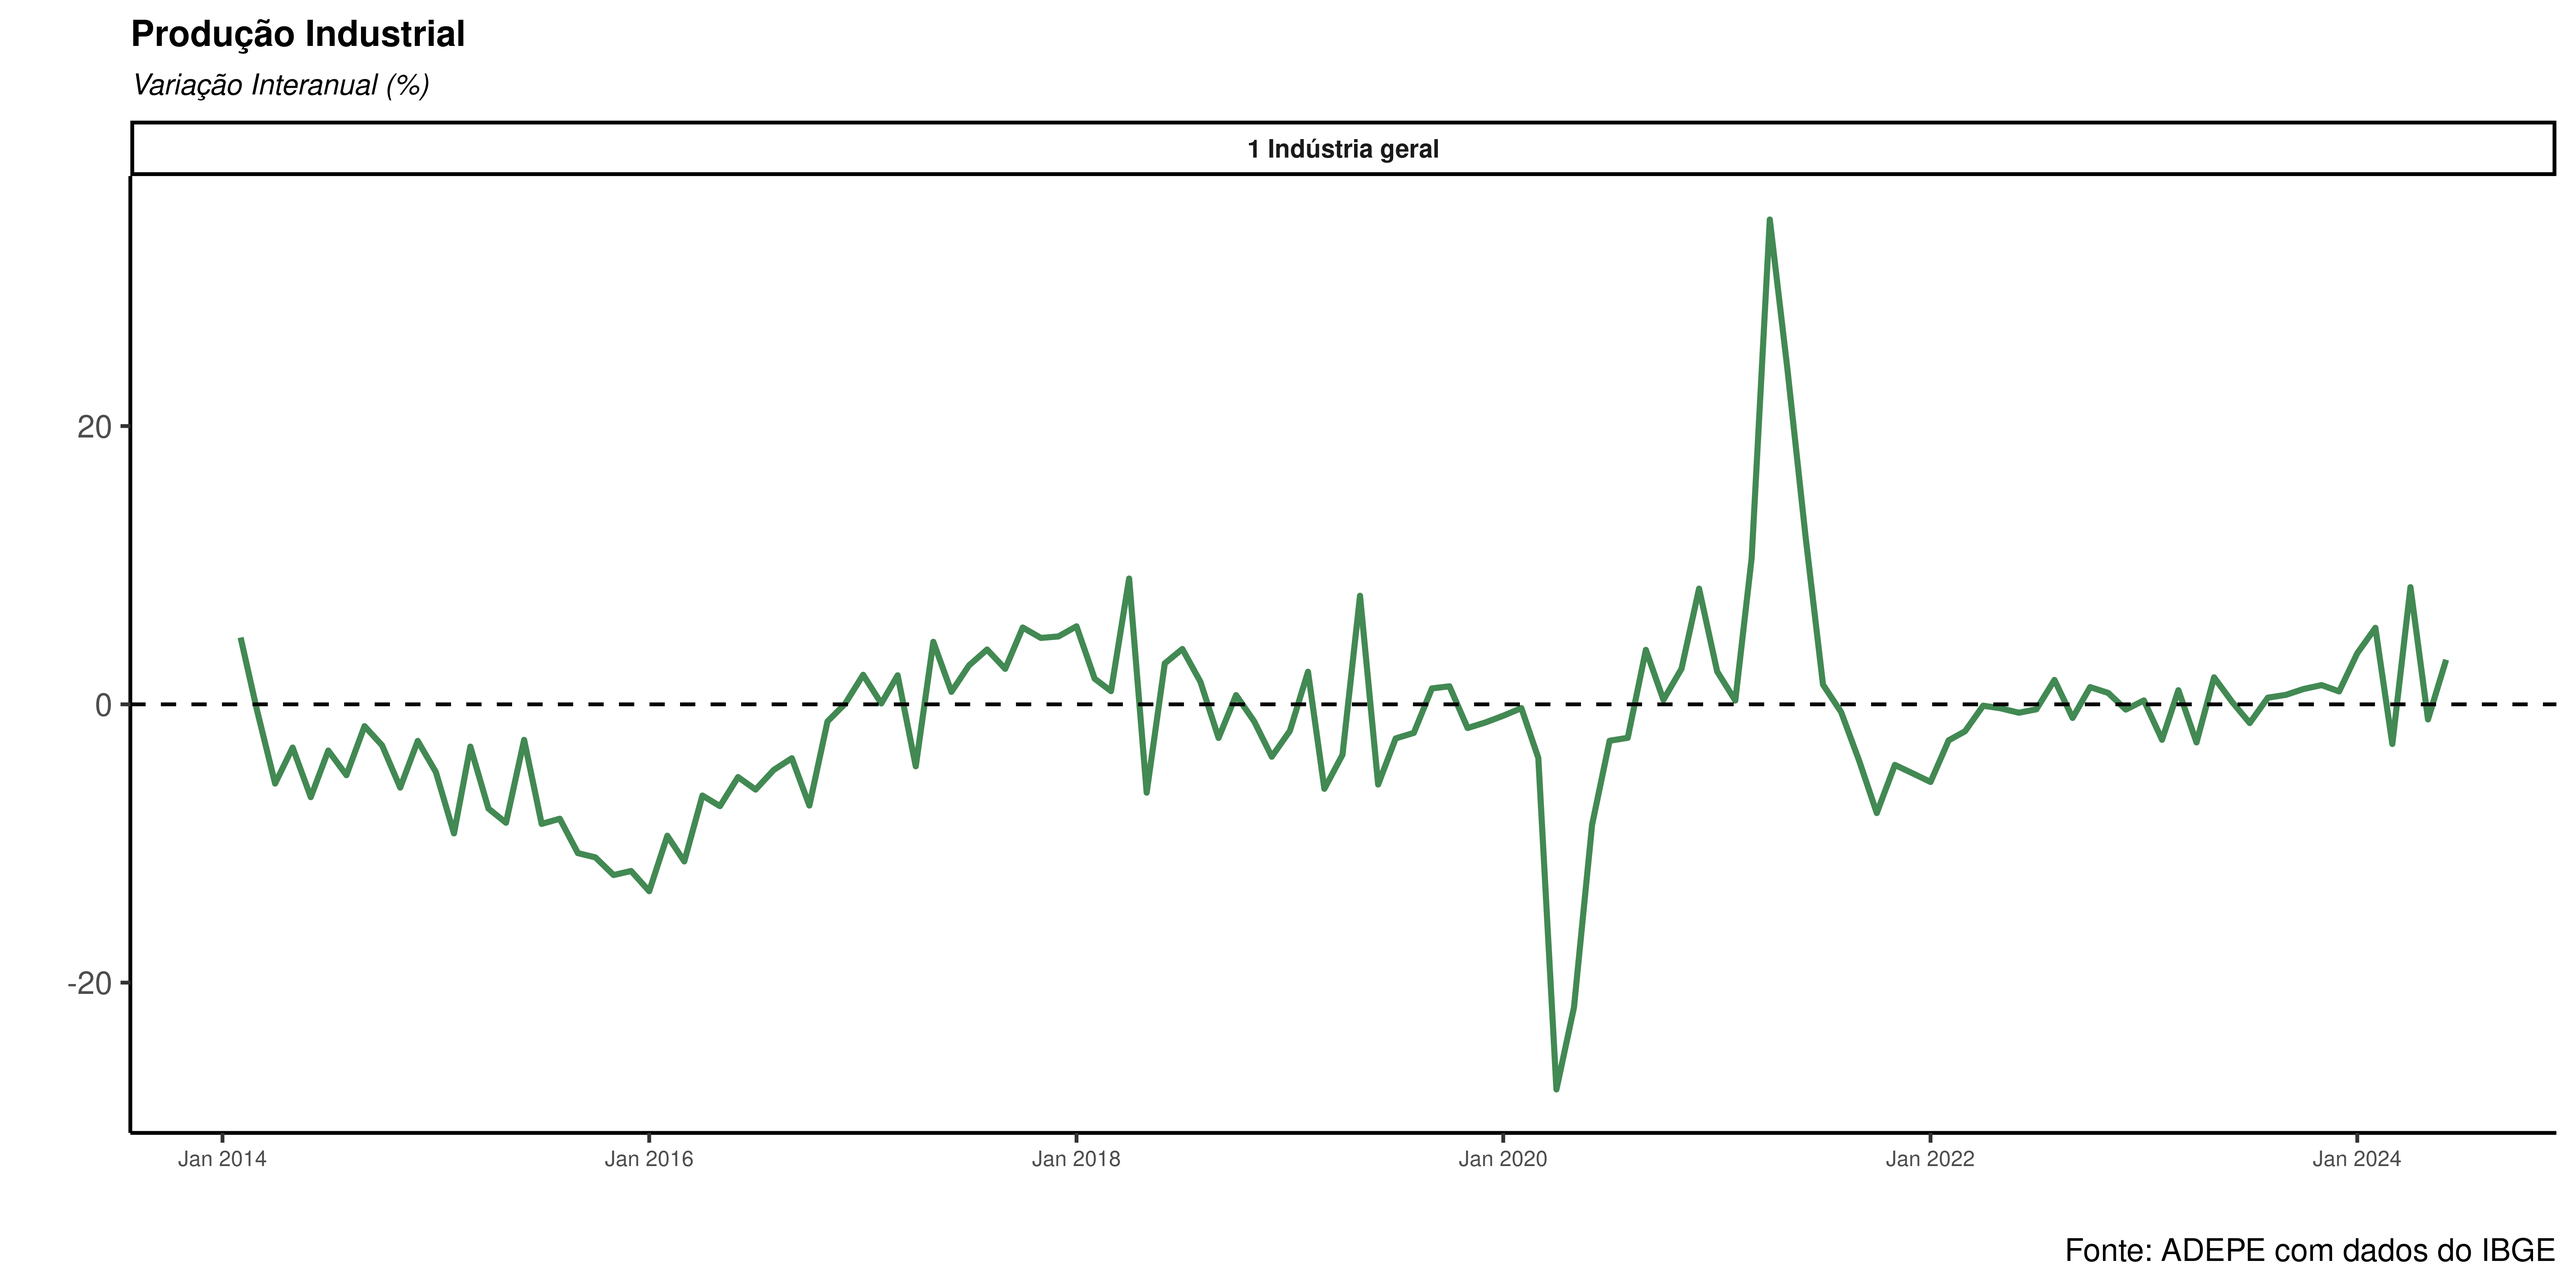
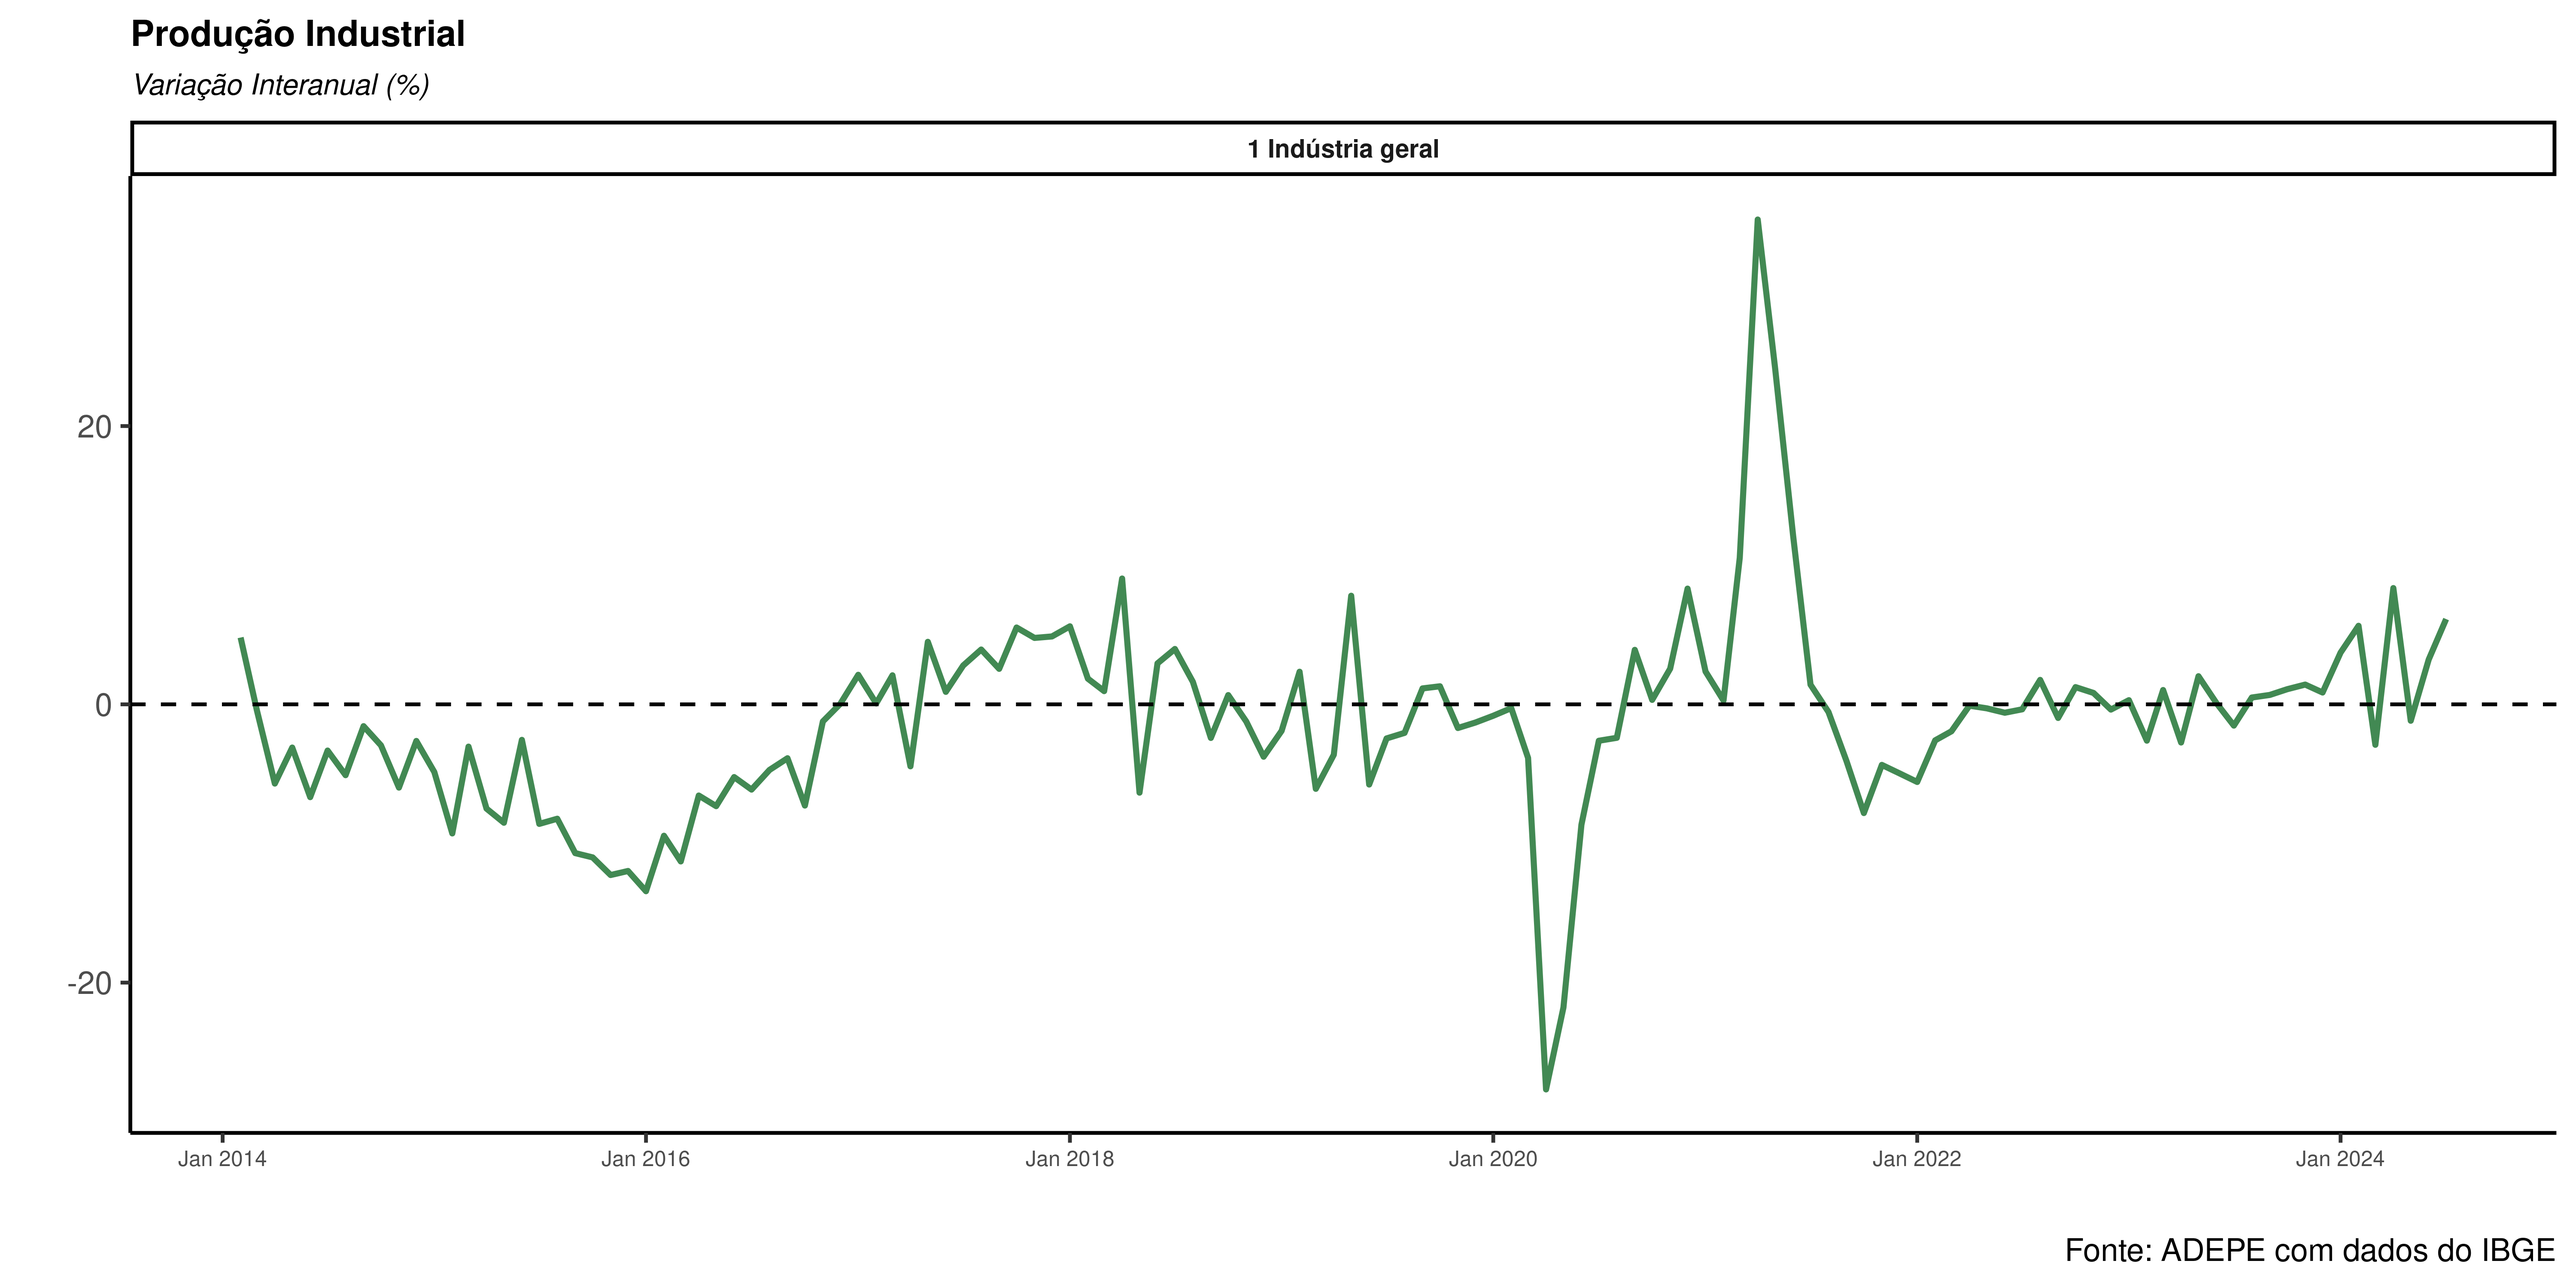
Atualização de relatório automatizada

diff --git a/pim/pim.html b/pim/pim.html
@@ -388,40 +388,40 @@ Núcleo de Dados <br><span style="font-size: 70%;">ADEPE<br><a href="https://git
 </thead>
 <tbody>
 <tr class="odd">
-<td style="text-align: center;">Jan 2024</td>
-<td style="text-align: center;">-0.79</td>
-<td style="text-align: center;">-6.69</td>
-<td style="text-align: center;">0.23</td>
-</tr>
-<tr class="even">
 <td style="text-align: center;">Feb 2024</td>
-<td style="text-align: center;">0.20</td>
-<td style="text-align: center;">-1.25</td>
-<td style="text-align: center;">0.60</td>
+<td style="text-align: center;">0.17</td>
+<td style="text-align: center;">-1.32</td>
+<td style="text-align: center;">0.57</td>
 </tr>
-<tr class="odd">
+<tr class="even">
 <td style="text-align: center;">Mar 2024</td>
-<td style="text-align: center;">0.95</td>
-<td style="text-align: center;">0.68</td>
-<td style="text-align: center;">0.88</td>
-</tr>
-<tr class="even">
-<td style="text-align: center;">Apr 2024</td>
-<td style="text-align: center;">-0.31</td>
-<td style="text-align: center;">-3.64</td>
-<td style="text-align: center;">0.35</td>
+<td style="text-align: center;">0.85</td>
+<td style="text-align: center;">0.59</td>
+<td style="text-align: center;">0.73</td>
 </tr>
 <tr class="odd">
-<td style="text-align: center;">May 2024</td>
-<td style="text-align: center;">-1.54</td>
-<td style="text-align: center;">3.36</td>
-<td style="text-align: center;">-2.54</td>
+<td style="text-align: center;">Apr 2024</td>
+<td style="text-align: center;">-0.36</td>
+<td style="text-align: center;">-3.47</td>
+<td style="text-align: center;">0.29</td>
 </tr>
 <tr class="even">
+<td style="text-align: center;">May 2024</td>
+<td style="text-align: center;">-1.47</td>
+<td style="text-align: center;">3.08</td>
+<td style="text-align: center;">-2.41</td>
+</tr>
+<tr class="odd">
 <td style="text-align: center;">Jun 2024</td>
-<td style="text-align: center;">4.13</td>
-<td style="text-align: center;">2.48</td>
-<td style="text-align: center;">4.48</td>
+<td style="text-align: center;">4.34</td>
+<td style="text-align: center;">2.58</td>
+<td style="text-align: center;">4.91</td>
+</tr>
+<tr class="even">
+<td style="text-align: center;">Jul 2024</td>
+<td style="text-align: center;">-1.44</td>
+<td style="text-align: center;">-2.38</td>
+<td style="text-align: center;">-1.33</td>
 </tr>
 </tbody>
 </table>
@@ -449,40 +449,40 @@ Núcleo de Dados <br><span style="font-size: 70%;">ADEPE<br><a href="https://git
 </thead>
 <tbody>
 <tr class="odd">
-<td style="text-align: center;">Jan 2024</td>
-<td style="text-align: center;">3.67</td>
-<td style="text-align: center;">6.92</td>
-<td style="text-align: center;">3.06</td>
-</tr>
-<tr class="even">
 <td style="text-align: center;">Feb 2024</td>
-<td style="text-align: center;">5.50</td>
-<td style="text-align: center;">5.34</td>
-<td style="text-align: center;">5.52</td>
+<td style="text-align: center;">5.64</td>
+<td style="text-align: center;">5.43</td>
+<td style="text-align: center;">5.68</td>
 </tr>
-<tr class="odd">
+<tr class="even">
 <td style="text-align: center;">Mar 2024</td>
-<td style="text-align: center;">-2.85</td>
-<td style="text-align: center;">1.61</td>
-<td style="text-align: center;">-3.62</td>
-</tr>
-<tr class="even">
-<td style="text-align: center;">Apr 2024</td>
-<td style="text-align: center;">8.42</td>
-<td style="text-align: center;">-1.57</td>
-<td style="text-align: center;">10.24</td>
+<td style="text-align: center;">-2.91</td>
+<td style="text-align: center;">1.75</td>
+<td style="text-align: center;">-3.71</td>
 </tr>
 <tr class="odd">
-<td style="text-align: center;">May 2024</td>
-<td style="text-align: center;">-1.08</td>
-<td style="text-align: center;">-0.21</td>
-<td style="text-align: center;">-1.24</td>
+<td style="text-align: center;">Apr 2024</td>
+<td style="text-align: center;">8.35</td>
+<td style="text-align: center;">-1.51</td>
+<td style="text-align: center;">10.16</td>
 </tr>
 <tr class="even">
+<td style="text-align: center;">May 2024</td>
+<td style="text-align: center;">-1.18</td>
+<td style="text-align: center;">-0.07</td>
+<td style="text-align: center;">-1.37</td>
+</tr>
+<tr class="odd">
 <td style="text-align: center;">Jun 2024</td>
-<td style="text-align: center;">3.20</td>
-<td style="text-align: center;">0.93</td>
-<td style="text-align: center;">3.62</td>
+<td style="text-align: center;">3.22</td>
+<td style="text-align: center;">1.14</td>
+<td style="text-align: center;">3.61</td>
+</tr>
+<tr class="even">
+<td style="text-align: center;">Jul 2024</td>
+<td style="text-align: center;">6.13</td>
+<td style="text-align: center;">-0.43</td>
+<td style="text-align: center;">7.35</td>
 </tr>
 </tbody>
 </table>
@@ -510,40 +510,40 @@ Núcleo de Dados <br><span style="font-size: 70%;">ADEPE<br><a href="https://git
 </thead>
 <tbody>
 <tr class="odd">
-<td style="text-align: center;">2024-01-01</td>
-<td style="text-align: center;">0.40</td>
-<td style="text-align: center;">7.46</td>
-<td style="text-align: center;">-0.80</td>
-</tr>
-<tr class="even">
 <td style="text-align: center;">2024-02-01</td>
-<td style="text-align: center;">1.00</td>
-<td style="text-align: center;">7.51</td>
-<td style="text-align: center;">-0.12</td>
+<td style="text-align: center;">0.99</td>
+<td style="text-align: center;">7.73</td>
+<td style="text-align: center;">-0.17</td>
 </tr>
-<tr class="odd">
+<tr class="even">
 <td style="text-align: center;">2024-03-01</td>
-<td style="text-align: center;">0.68</td>
-<td style="text-align: center;">7.36</td>
-<td style="text-align: center;">-0.47</td>
-</tr>
-<tr class="even">
-<td style="text-align: center;">2024-04-01</td>
-<td style="text-align: center;">1.54</td>
-<td style="text-align: center;">7.09</td>
-<td style="text-align: center;">0.58</td>
+<td style="text-align: center;">0.66</td>
+<td style="text-align: center;">7.57</td>
+<td style="text-align: center;">-0.53</td>
 </tr>
 <tr class="odd">
-<td style="text-align: center;">2024-05-01</td>
-<td style="text-align: center;">1.28</td>
-<td style="text-align: center;">6.07</td>
-<td style="text-align: center;">0.44</td>
+<td style="text-align: center;">2024-04-01</td>
+<td style="text-align: center;">1.53</td>
+<td style="text-align: center;">7.29</td>
+<td style="text-align: center;">0.53</td>
 </tr>
 <tr class="even">
+<td style="text-align: center;">2024-05-01</td>
+<td style="text-align: center;">1.25</td>
+<td style="text-align: center;">6.27</td>
+<td style="text-align: center;">0.37</td>
+</tr>
+<tr class="odd">
 <td style="text-align: center;">2024-06-01</td>
-<td style="text-align: center;">1.54</td>
-<td style="text-align: center;">5.23</td>
-<td style="text-align: center;">0.88</td>
+<td style="text-align: center;">1.51</td>
+<td style="text-align: center;">5.42</td>
+<td style="text-align: center;">0.82</td>
+</tr>
+<tr class="even">
+<td style="text-align: center;">2024-07-01</td>
+<td style="text-align: center;">2.19</td>
+<td style="text-align: center;">4.73</td>
+<td style="text-align: center;">1.74</td>
 </tr>
 </tbody>
 </table>
